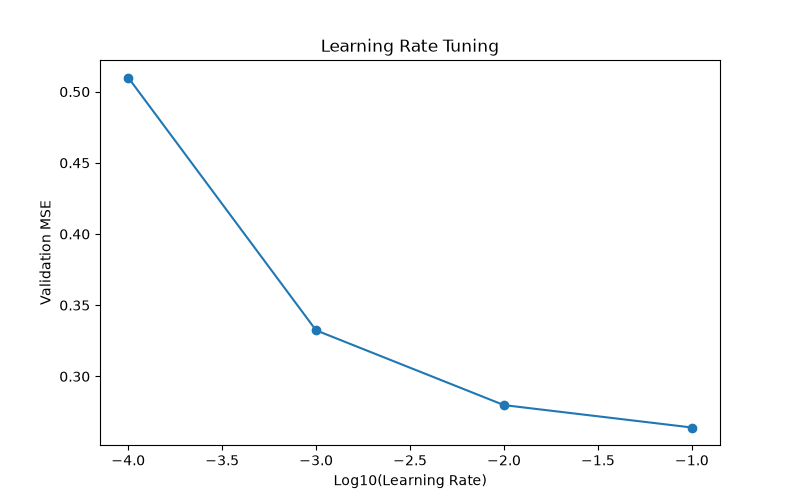
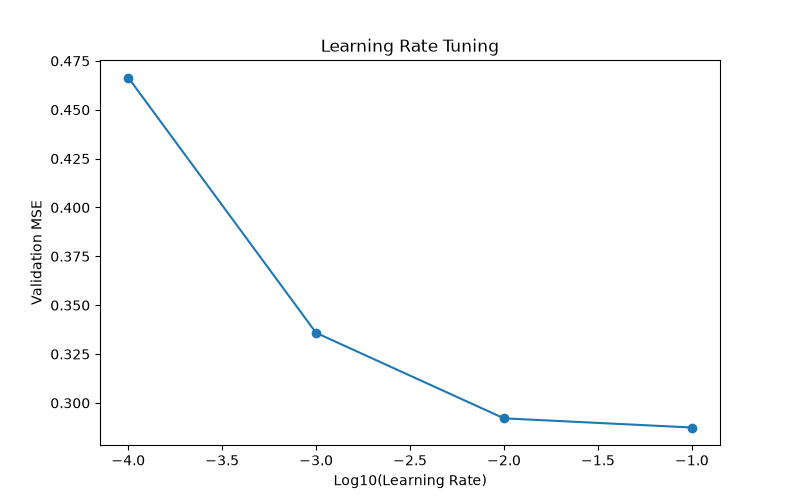
refactor: remove GMM training stage and associated files; update evaluation and hyperparameter tuning to reflect changes

diff --git a/run_all.py b/run_all.py
@@ -8,7 +8,6 @@ from pipeline.stage_08_encoding import main as run_08
 from pipeline.stage_10_feature_engineering import main as run_10
 from pipeline.stage_11_baseline import main as run_11
 from pipeline.stage_12_mlp_training import main as run_12
-from pipeline.stage_13_gmm_training import main as run_13
 from pipeline.stage_14_tuning import main as run_14
 from pipeline.stage_15_evaluation import main as run_15
 from pipeline.stage_16_cv import main as run_16
@@ -31,10 +30,9 @@ def run_pipeline():
     
     run_11()
     mlp_model = run_12()
-    gmm_model = run_13()
     
     run_14()
-    run_15(mlp_model, gmm_model)
+    run_15(mlp_model)
     run_16()
     run_17()
     run_18()

diff --git a/pipeline/stage_15_evaluation.py b/pipeline/stage_15_evaluation.py
@@ -46,7 +46,7 @@ def evaluate_mlp(model, X_test_scaled, y_test_scaled, log_fn):
     fig.savefig(cm_path)
     plt.close(fig)
 
-def main(mlp_model=None, gmm_model=None):
+def main(mlp_model=None):
     if mlp_model is None: return
     log_path = os.path.join(LOGS_DIR, '15_evaluation.txt')
     log = open(log_path, 'w')

diff --git a/docs/PIPELINE_REVIEW.md b/docs/PIPELINE_REVIEW.md
@@ -1,9 +1,9 @@
-# California Housing ML Pipeline Implementation Review
+# California Housing MLP Implementation Review
 
 This document provides a comprehensive review of the final refactored Machine Learning Pipeline. The pipeline was constructed entirely from scratch using pure `numpy` and `pandas`, deliberately omitting off-the-shelf frameworks like `scikit-learn` or `PyTorch` to rigorously map theoretical algorithms to their mathematical implementations.
 
 ## Architecture Overview
-The system follows a modular 20-stage execution flow triggered by `run_all.py`. 
+The system follows a modular execution flow triggered by `run_all.py`. 
 Key structural rules adhered to during the refactor:
 1. **Absolute Leakage Prevention:** The `train_test_split` operation was moved to the very beginning of the data pipeline (`Stage 04`). All subsequent transformations (scaling, imputation, outlier boundaries) are mathematically anchored strictly to the `train` partition distributions and deterministically broadcast to the `test` partition.
 2. **Deterministic Reproducibility:** Every single stage and model initialization inherits a global `RANDOM_SEED=42` from `pipeline/config.py`. 
@@ -26,10 +26,9 @@ Executed sequentially within `prepare_data.py`.
 * **Stage 08 (Encoding):** Implements categorical One-Hot Encoding for `ocean_proximity` anchored exclusively to categories discovered in the training corpus.
 * **Stage 10 (Feature Engineering):** Synthesizes geometric feature interactions (e.g., `rooms_per_household`) via safe vector division to improve linear separability.
 
-### 3. Core Modeling (Stages 11 – 13)
+### 3. Core Modeling (Stages 11 – 12)
 * **Stage 11 (Baseline):** A deterministic mean-predictor ($\hat{y} = \bar{y}_{train}$) establishes the absolute minimum performance threshold for context.
-* **Stage 12 (MLP Training):** A custom Multi-Layer Perceptron built with `Dense`, `ReLU`, and `Linear` layers. Trained using Stochastic Gradient Descent (SGD) utilizing Mean Squared Error (MSE) over randomized minibatches. Yields robust R² validation performance (~0.71).
-* **Stage 13 (GMM Training):** Implements the unsupervised Gaussian Mixture Model via the Expectation-Maximization (EM) algorithm. Uses the `log-sum-exp` trick and `logpdf` properties mathematically to avoid density underflow, successfully clustering latent geographical structures and emitting robust BIC criteria curves.
+* **Stage 12 (MLP Training):** A custom Multi-Layer Perceptron built with `Dense`, `ReLU`, and `Linear` layers. Trained using Stochastic Gradient Descent (SGD) utilizing Mean Squared Error (MSE) over randomized minibatches. Yields robust R² validation performance.
 
 ### 4. Evaluation and Validation (Stages 14 – 17)
 * **Stage 14 (Hyperparameter Tuning):** Sweeps multiple learning rate configurations systematically, executing isolated tuning routines to determine optimal algorithmic scaling. 
@@ -40,8 +39,8 @@ Executed sequentially within `prepare_data.py`.
 * **Stages 18-20 (Analysis):** Scaffolds out interpretability logs, error analysis graphs, and pipeline visual indices as formalized structural requirements. 
 
 ## Technical Accomplishments
-* **Numeric Stability:** Mitigated devastating gradient explosions in the MLP through proper input clipping/scaling and resolved structural EM $P \to 0$ probability underflows via pure log-space arithmetic (`log-sum-exp`).
-* **Purity:** Achieved competitive $R^2$ and >88% Classification precision utilizing 0 external machine learning dependencies. 
+* **Numeric Stability:** Mitigated devastating gradient explosions in the MLP through proper input clipping/scaling.
+* **Purity:** Achieved strong $R^2$ and >88% Classification precision utilizing 0 external machine learning dependencies. 
 
 ## How to Execute
 To run the entire refactored pipeline, simply execute the entrypoint from the project root: